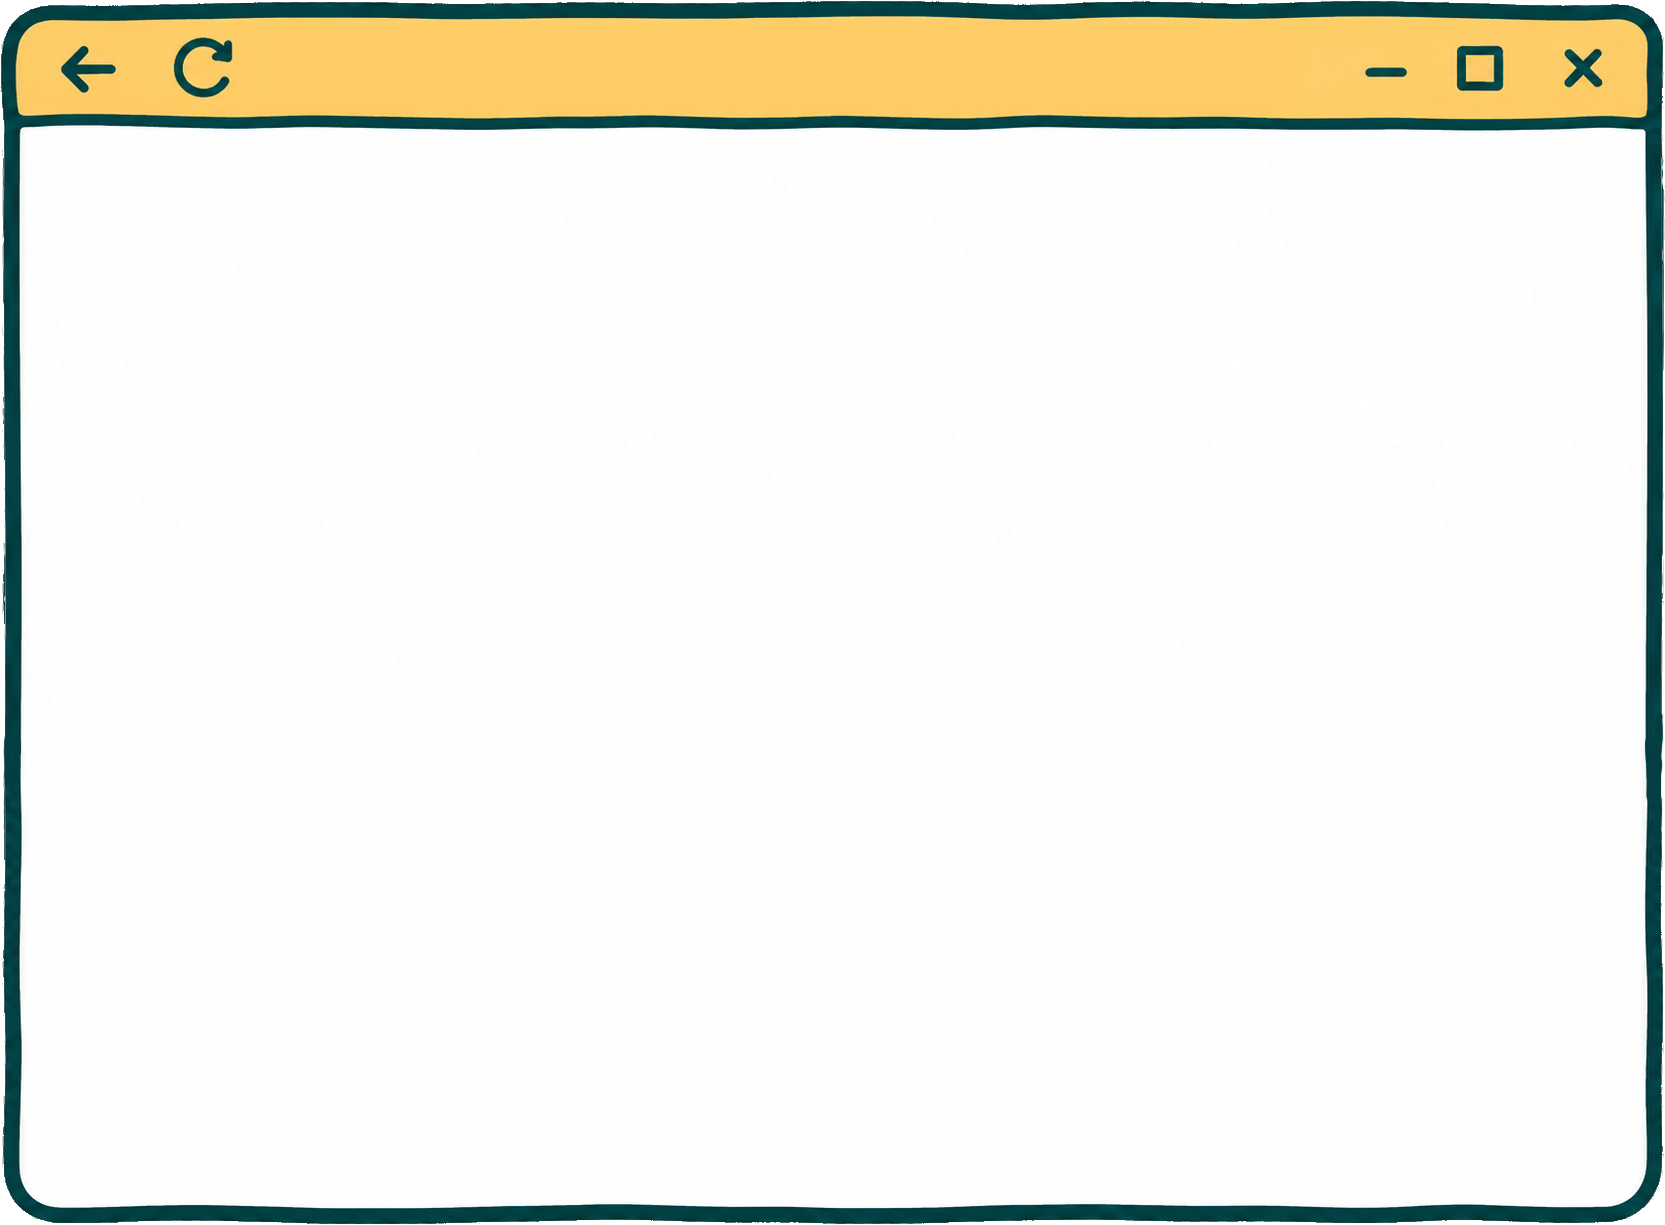
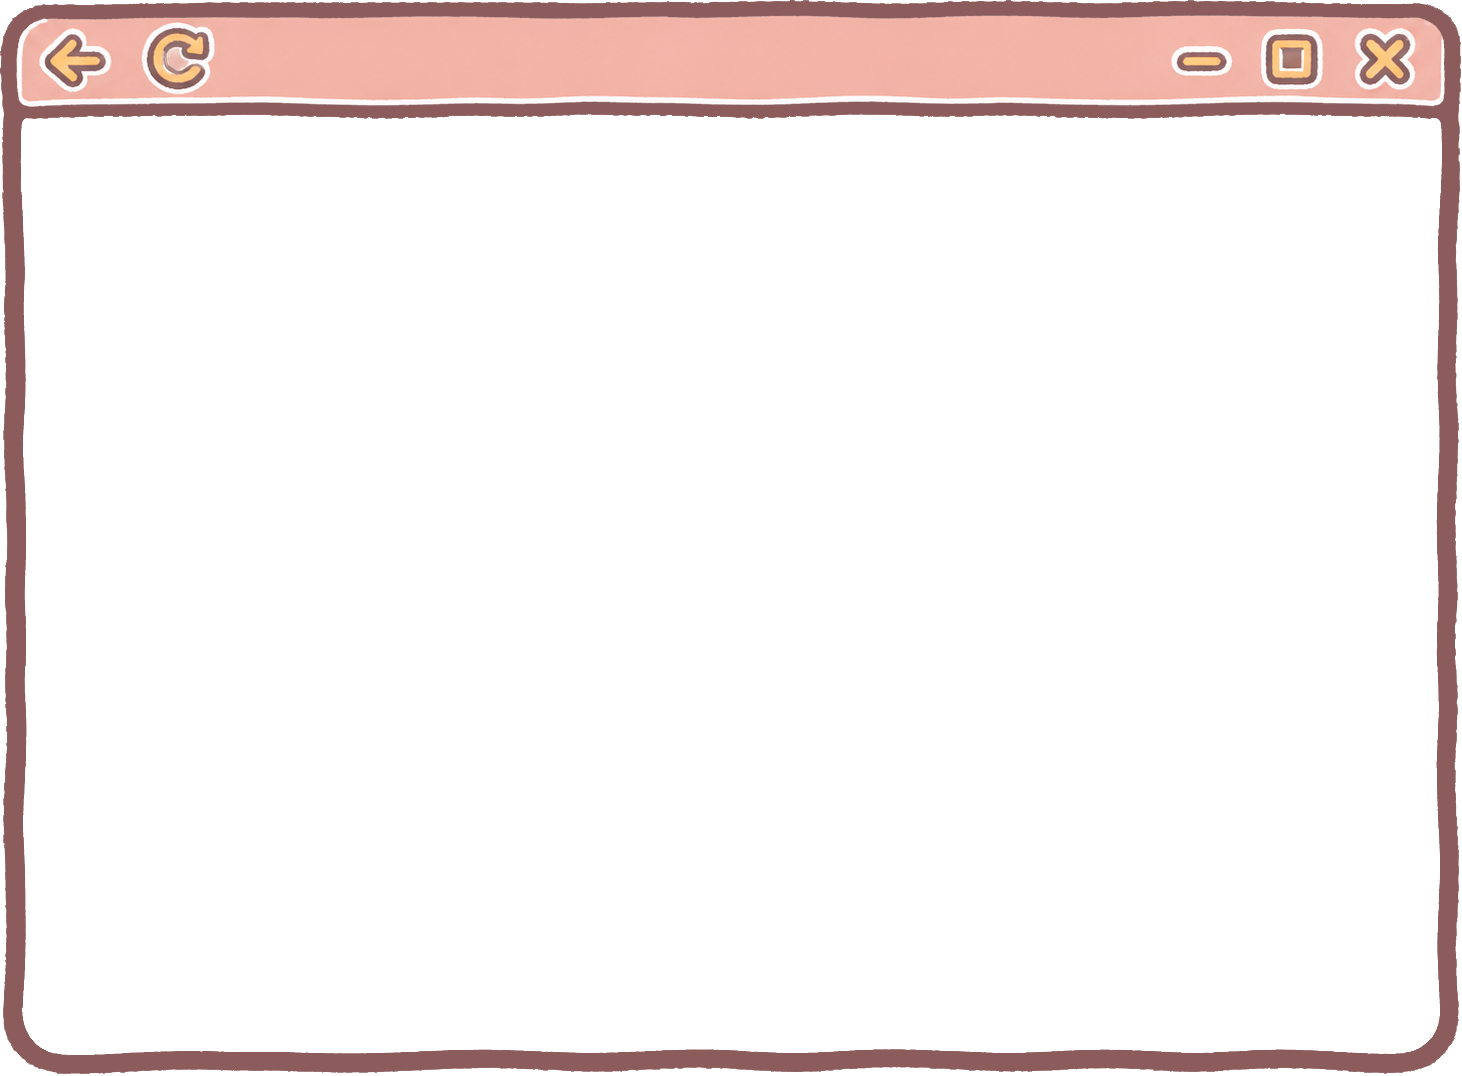
update

Changed region(s): [[0.0, 0.0, 1.0, 1.0]]

diff --git a/index.html b/index.html
@@ -48,30 +48,32 @@
       
       <div class="home-visual">
         <div class="home-stickers" aria-hidden="true">
-          <img id="sticker-1" class="cover-sticker sticker-crown" src="assets/custom-stickers/01-pink-crown.png" alt="" data-sticker-id="sticker-1" data-editor-ready="true" style="left:59.298%;top:3.72133%;width:8.999489%;rotate:26deg;right:auto;bottom:auto;height:auto">
-          <img id="sticker-2" class="cover-sticker sticker-arrow" src="assets/custom-stickers/02-down-arrow.png" alt="" data-sticker-id="sticker-2" data-editor-ready="true">
+          <!-- <img id="sticker-1" class="cover-sticker sticker-crown" src="assets/custom-stickers/01-pink-crown.png" alt="" data-sticker-id="sticker-1" data-editor-ready="true" style="left:59.298%;top:3.72133%;width:8.999489%;rotate:26deg;right:auto;bottom:auto;height:auto"> -->
+          <!-- <img id="sticker-2" class="cover-sticker sticker-arrow" src="assets/custom-stickers/02-down-arrow.png" alt="" data-sticker-id="sticker-2" data-editor-ready="true"> -->
           <img id="sticker-3" class="cover-sticker sticker-spark" src="assets/custom-stickers/03-pink-spark.png" alt="" data-sticker-id="sticker-3" data-editor-ready="true" style="left:-1.04325%;top:29.5742%;width:5.766307%;rotate:13deg;right:auto;bottom:auto;height:auto">
           <img id="sticker-4" class="cover-sticker sticker-starburst" src="assets/custom-stickers/04-long-starburst.png" alt="" data-sticker-id="sticker-4" data-editor-ready="true">
           <img id="sticker-5" class="cover-sticker sticker-lightning" src="assets/custom-stickers/08-lightning.png" alt="" data-sticker-id="sticker-5" data-editor-ready="true">
-          <img id="sticker-6" class="cover-sticker sticker-bubble" src="assets/custom-stickers/09-build-things-bubble.png" alt="" data-sticker-id="sticker-6" data-editor-ready="true" style="left:11.8885%;top:64.3326%;width:15%;rotate:-2deg;right:auto;bottom:auto;height:auto">
-          <img id="sticker-8" class="cover-sticker sticker-label" src="assets/custom-stickers/11-technical-art-label.png" alt="" data-sticker-id="sticker-8" data-editor-ready="true" style="left:34.5584%;top:76.0837%;width:39.96375%;rotate:16deg;right:auto;bottom:auto;height:auto">
-          <img id="sticker-9" class="cover-sticker sticker-orbit" src="assets/custom-stickers/12-orbit.png" alt="" data-sticker-id="sticker-9" data-editor-ready="true">
-          <img id="sticker-10" class="cover-sticker sticker-smiley" src="assets/custom-stickers/13-smiley.png" alt="" data-sticker-id="sticker-10" data-editor-ready="true">
-          <img id="sticker-11" class="cover-sticker sticker-lhy" src="assets/custom-stickers/lhy.png" alt="" data-sticker-id="sticker-11" data-editor-ready="true" style="left:-15.4549%;top:16.1234%;width:43.634659%;rotate:10deg;right:auto;bottom:auto;height:auto">
-          <img id="sticker-16" class="cover-sticker sticker-play" src="assets/custom-stickers/20-play.png" alt="" data-sticker-id="sticker-16" data-editor-ready="true">
-          <img id="sticker-22" class="cover-sticker sticker-custom" src="assets/custom-stickers/sticker-22.png" alt="" data-sticker-id="sticker-22" data-editor-ready="true" style="left:-25.2784%;top:1.91696%;width:17.084205%;rotate:0deg;right:auto;bottom:auto;height:auto">
+          <!-- <img id="sticker-6" class="cover-sticker sticker-bubble" src="assets/custom-stickers/09-build-things-bubble.png" alt="" data-sticker-id="sticker-6" data-editor-ready="true" style="left:11.8885%;top:64.3326%;width:15%;rotate:-2deg;right:auto;bottom:auto;height:auto"> -->
+          <!-- <img id="sticker-8" class="cover-sticker sticker-label" src="assets/custom-stickers/11-technical-art-label.png" alt="" data-sticker-id="sticker-8" data-editor-ready="true" style="left:34.5584%;top:76.0837%;width:39.96375%;rotate:16deg;right:auto;bottom:auto;height:auto"> -->
+          <!-- <img id="sticker-9" class="cover-sticker sticker-orbit" src="assets/custom-stickers/12-orbit.png" alt="" data-sticker-id="sticker-9" data-editor-ready="true"> -->
+          <!-- <img id="sticker-10" class="cover-sticker sticker-smiley" src="assets/custom-stickers/13-smiley.png" alt="" data-sticker-id="sticker-10" data-editor-ready="true"> -->
+          <!-- <img id="sticker-11" class="cover-sticker sticker-lhy" src="assets/custom-stickers/lhy.png" alt="" data-sticker-id="sticker-11" data-editor-ready="true" style="left:-15.4549%;top:16.1234%;width:43.634659%;rotate:10deg;right:auto;bottom:auto;height:auto"> -->
+          <!-- <img id="sticker-16" class="cover-sticker sticker-play" src="assets/custom-stickers/20-play.png" alt="" data-sticker-id="sticker-16" data-editor-ready="true"> -->
+          <!-- <img id="sticker-22" class="cover-sticker sticker-custom" src="assets/custom-stickers/sticker-22.png" alt="" data-sticker-id="sticker-22" data-editor-ready="true" style="left:-5.2784%;top:15%;width:17.084205%;rotate:0deg;right:auto;bottom:auto;height:auto"> -->
           <img id="sticker-23" class="cover-sticker sticker-custom" src="assets/custom-stickers/sticker-23.png" alt="" data-sticker-id="sticker-23" data-editor-ready="true" style="left:67.2757%;top:89.7315%;width:4.659091%;rotate:14deg;right:auto;bottom:auto;height:auto">
           <img id="sticker-24" class="cover-sticker sticker-custom" src="assets/custom-stickers/sticker-24.png" alt="" data-sticker-id="sticker-24" data-editor-ready="true" style="left:79.2248%;top:68.2929%;width:5.568182%;rotate:26deg;right:auto;bottom:auto;height:auto">
-          <img id="sticker-25" class="cover-sticker sticker-custom" src="assets/custom-stickers/sticker-25.png" alt="" data-sticker-id="sticker-25" data-editor-ready="true" style="left:-12.5819%;top:33.4027%;width:9.095648%;rotate:-28deg;right:auto;bottom:auto;height:auto">
+          <!-- <img id="sticker-25" class="cover-sticker sticker-custom" src="assets/custom-stickers/sticker-25.png" alt="" data-sticker-id="sticker-25" data-editor-ready="true" style="left:-12.5819%;top:33.4027%;width:9.095648%;rotate:-28deg;right:auto;bottom:auto;height:auto"> -->
           <img id="sticker-26" class="cover-sticker sticker-custom" src="assets/custom-stickers/sticker-26.png" alt="" data-sticker-id="sticker-26" data-editor-ready="true" style="left:-0.750989%;top:39.4179%;width:10.015977%;rotate:0deg;right:auto;bottom:auto;height:auto">
-          <img id="sticker-27" class="cover-sticker sticker-custom" src="assets/custom-stickers/sticker-27.png" alt="" data-sticker-id="sticker-27" data-editor-ready="true" style="left:19.069%;top:13.4152%;width:8.281773%;rotate:-30deg;right:auto;bottom:auto;height:auto">
+          <!-- <img id="sticker-27" class="cover-sticker sticker-custom" src="assets/custom-stickers/sticker-27.png" alt="" data-sticker-id="sticker-27" data-editor-ready="true" style="left:19.069%;top:13.4152%;width:8.281773%;rotate:-30deg;right:auto;bottom:auto;height:auto"> -->
           <img id="sticker-28" class="cover-sticker sticker-custom" src="assets/custom-stickers/sticker-28.png" alt="" data-sticker-id="sticker-28" data-editor-ready="true" style="left:75.6157%;top:75.9328%;width:12.290455%;rotate:0deg;right:auto;bottom:auto;height:auto">
-          <img id="sticker-29" class="cover-sticker sticker-custom" src="assets/custom-stickers/sticker-29.png" alt="" data-sticker-id="sticker-29" data-editor-ready="true" style="left:91.6413%;top:13.382%;width:5.577227%;rotate:0deg;right:auto;bottom:auto;height:auto">
-          <img id="sticker-30" class="cover-sticker sticker-custom" src="assets/custom-stickers/sticker-30.png" alt="" data-sticker-id="sticker-30" data-editor-ready="true" style="left:82.5206%;top:93.9347%;width:4.090909%;rotate:50deg;right:auto;bottom:auto;height:auto">
+          <!-- <img id="sticker-29" class="cover-sticker sticker-custom" src="assets/custom-stickers/sticker-29.png" alt="" data-sticker-id="sticker-29" data-editor-ready="true" style="left:91.6413%;top:13.382%;width:5.577227%;rotate:0deg;right:auto;bottom:auto;height:auto"> -->
+          <!-- <img id="sticker-30" class="cover-sticker sticker-custom" src="assets/custom-stickers/sticker-30.png" alt="" data-sticker-id="sticker-30" data-editor-ready="true" style="left:82.5206%;top:93.9347%;width:4.090909%;rotate:50deg;right:auto;bottom:auto;height:auto"> -->
         </div>
         <div class="eye-character" aria-label="Hand-drawn character">
                     <img class="face-frame frame-down" src="assets/eye-layers/frame_down.png" alt="">
 <img src="assets/eye-layers/face-base.png" alt="">
+          <img src="assets/eye-layers/pink_crown.png" alt="">
+          <img src="assets/eye-layers/pink_sticker.png" alt="">
           <img src="assets/eye-layers/eye-white.png" alt="">
           <img class="eye-pupil" src="assets/eye-layers/pupil-left.png" alt="">
           <img class="eye-pupil" src="assets/eye-layers/pupil-right.png" alt="">
@@ -126,11 +128,12 @@
   <script src="section-scroll.js"></script>
   <script src="nav-scroll.js"></script>
   <script src="eye-follow.js"></script>
-  <script src="sticker-editor.js"></script>
+  <script src="random-stickers.js"></script>
   <script src="background-scroll.js"></script>
   <script src="home-scroll.js"></script>
 </body>
 </html>
+
 
 
 

diff --git a/image-overrides.css b/image-overrides.css
@@ -92,7 +92,7 @@ h2 { font-size: 48px; overflow-wrap: anywhere; }
   z-index: -1;
   opacity: 0;
   pointer-events: none;
-  background: linear-gradient(to bottom, rgba(255, 244, 49, 0.72), rgba(255, 244, 49, 0.08));
+  background: linear-gradient(to bottom, rgba(255, 229, 146, 0.72), rgba(255, 229, 146, 0.00));
   transition: opacity 320ms ease;
 }
 .topbar.has-backdrop::before { opacity: var(--nav-backdrop-opacity, 1); }
@@ -150,7 +150,7 @@ h2 { font-size: 48px; overflow-wrap: anywhere; }
 
 /* Final motion and navigation spacing adjustments. */
 .topbar::before {
-  background: linear-gradient(to bottom, rgba(255, 244, 49, 1) 0%, rgba(255, 244, 49, 0) 100%);
+  background: linear-gradient(to bottom, rgba(244, 148, 188, 1) 0%, rgba(244, 148, 188, 0) 100%);
 }
 .image-nav { gap: 12px; }
 .image-nav a { flex: none; width: auto; overflow: visible; }
@@ -568,5 +568,81 @@ html {
 body {
   background: linear-gradient(to bottom, var(--bg-top), var(--bg-bottom)) fixed;
   background-size: 100% 100vh;
+}
+
+
+/* Seeded decorative stickers across the homepage and CV transition. */
+.home-stickers,
+.sticker-editor { display: none !important; }
+.hero,
+.cv-section { position: relative; }
+.random-sticker-layer {
+  position: absolute;
+  inset: 0;
+  overflow: hidden;
+  pointer-events: none;
+  z-index: 1;
+}
+.random-page-sticker {
+  position: absolute;
+  left: var(--sticker-x);
+  top: var(--sticker-y);
+  width: clamp(14px, var(--sticker-size), 59px);
+  height: auto;
+  opacity: var(--sticker-opacity, 1);
+  translate: -50% -50%;
+  rotate: var(--sticker-angle);
+  object-fit: contain;
+  filter: drop-shadow(2px 3px 0 rgba(23, 36, 67, .14));
+  animation: randomStickerFloat 8s ease-in-out var(--sticker-delay) infinite;
+}
+.hero > .home-visual,
+.cv-section > .cv-sheet { position: relative; z-index: 2; }
+@keyframes randomStickerFloat {
+  0%, 100% { transform: translateY(-2px) rotate(-1deg); }
+  50% { transform: translateY(4px) rotate(1deg); }
+}
+@media (max-width: 600px) {
+  .random-page-sticker { max-width: 36px; }
+}
+@media (prefers-reduced-motion: reduce) {
+  .random-page-sticker { animation: none; }
+}
+
+.home-random-stickers {
+  opacity: var(--home-scroll-opacity, 1);
+  clip-path: inset(clamp(100px, 13vh, 150px) 0 0);
+}
+
+
+
+/* Maximize and center the character below navigation. */
+.home-scroll-scene .hero {
+  --home-nav-space: 108px;
+  --home-bottom-space: 16px;
+  padding: var(--home-nav-space) 12px var(--home-bottom-space);
+  place-items: center;
+}
+.home-scroll-scene .home-visual {
+  width: min(
+    calc(100vw - 24px),
+    calc((100svh - var(--home-nav-space) - var(--home-bottom-space)) * 2345 / 2965)
+  );
+  height: auto;
+  aspect-ratio: 2345 / 2965;
+  margin: 0;
+}
+@media (max-width: 700px) {
+  .home-scroll-scene .hero {
+    --home-nav-space: 158px;
+    --home-bottom-space: 12px;
+    padding-inline: 8px;
+  }
+  .home-scroll-scene .home-visual {
+    width: min(
+      calc(100vw - 16px),
+      calc((100svh - var(--home-nav-space) - var(--home-bottom-space)) * 2345 / 2965)
+    );
+  }
 }
 

diff --git a/random-stickers.js b/random-stickers.js
@@ -1,0 +1,91 @@
+(() => {
+  const assets = [
+    '03-pink-spark.png',
+    '04-long-starburst.png',
+    'sticker-26.png'
+  ];
+
+  function random(seed) {
+    let value = seed >>> 0;
+    return () => {
+      value = (value * 1664525 + 1013904223) >>> 0;
+      return value / 4294967296;
+    };
+  }
+
+  function makeSticker(file, x, y, size, angle, delay, opacity = 1) {
+    const img = new Image();
+    img.src = `assets/stikers/${file}`;
+    img.alt = '';
+    img.className = 'random-page-sticker';
+    img.style.setProperty('--sticker-x', `${x}%`);
+    img.style.setProperty('--sticker-y', `${y}%`);
+    img.style.setProperty('--sticker-size', `${size}px`);
+    img.style.setProperty('--sticker-angle', `${angle}deg`);
+    img.style.setProperty('--sticker-delay', `${delay}s`);
+    img.style.setProperty('--sticker-opacity', opacity);
+    return img;
+  }
+
+  function fillHome() {
+    const hero = document.querySelector('#home');
+    if (!hero) return;
+    const rand = Math.random;
+    const width = innerWidth;
+    const count = width < 600 ? 12 : width < 1000 ? 17 : 21;
+    const minDistance = width < 600 ? 16 : 10;
+    const points = [];
+    let attempts = 0;
+    while (points.length < count && attempts < count * 120) {
+      attempts++;
+      const point = { x: 3 + rand() * 94, y: 15 + rand() * 80 };
+      const clear = points.every(other => {
+        const dx = point.x - other.x;
+        const dy = (point.y - other.y) * 1.15;
+        return Math.hypot(dx, dy) >= minDistance;
+      });
+      if (clear) points.push(point);
+    }
+    const layer = document.createElement('div');
+    layer.className = 'random-sticker-layer home-random-stickers';
+    for (let i = 0; i < count; i++) {
+      const point = points[i] || { x: 3 + rand() * 94, y: 15 + rand() * 80 };
+      const size = width < 600 ? 22.67 + rand() * 15.33 : 30 + rand() * 28.5;
+      layer.appendChild(makeSticker(
+        assets[Math.floor(rand() * assets.length)],
+        point.x,
+        point.y,
+        size,
+        -28 + rand() * 56,
+        -rand() * 8
+      ));
+    }
+    hero.prepend(layer);
+  }
+
+  function fillCv() {
+    const cv = document.querySelector('#cv');
+    if (!cv) return;
+    const rand = Math.random;
+    const count = innerWidth < 600 ? 5 : 8;
+    const layer = document.createElement('div');
+    layer.className = 'random-sticker-layer cv-random-stickers';
+    for (let i = 0; i < count; i++) {
+      const progress = count === 1 ? 0 : i / (count - 1);
+      const y = 3 + Math.pow(rand(), 1.8) * 60;
+      const x = 5 + rand() * 90;
+      const size = (innerWidth < 600 ? 20 : 26.67) + rand() * (innerWidth < 600 ? 10 : 19.33);
+      const opacity = 0.78 - progress * 0.6;
+      layer.appendChild(makeSticker(assets[Math.floor(rand() * assets.length)], x, y, size, -24 + rand() * 48, -rand() * 8, opacity));
+    }
+    cv.prepend(layer);
+  }
+
+  fillHome();
+  fillCv();
+})();
+
+
+
+
+

diff --git a/styles.css b/styles.css
@@ -2,8 +2,8 @@
   color-scheme: light;
   --bg: #015aff;
   --ink: #172443;
-  --muted: #34476d;
-  --line: #172443;
+  --muted: #ffffff;
+  --line: #ffffff;
   --pink: #ff4fa2;
   --hot: #ff6b23;
   --cyan: #18aeb7;
